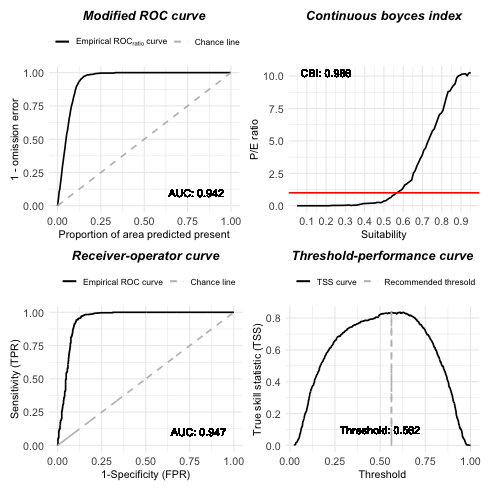
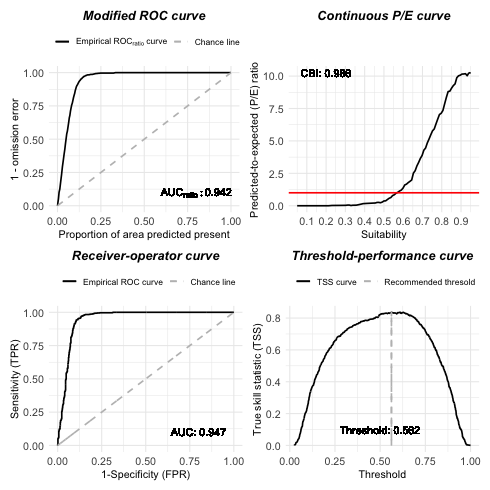
Built site for itsdm: 0.1.3@aee280a

Changed region(s): [[0.3367, 0.1224, 0.551, 0.4592], [0.6122, 0.0, 0.949, 0.0612]]

diff --git a/articles/introduction_of_itsdm.html b/articles/introduction_of_itsdm.html
@@ -84,7 +84,7 @@
       <h1 data-toc-skip>Introduction of <code>itsdm</code> with a virtual species</h1>
                         <h4 data-toc-skip class="author">Lei Song</h4>
             
-            <h4 data-toc-skip class="date">2022-08-31</h4>
+            <h4 data-toc-skip class="date">2022-09-05</h4>
       
       <small class="dont-index">Source: <a href="https://github.com/LLeiSong/itsdm/blob/HEAD/vignettes/introduction_of_itsdm.Rmd" class="external-link"><code>vignettes/introduction_of_itsdm.Rmd</code></a></small>
       <div class="hidden name"><code>introduction_of_itsdm.Rmd</code></div>
@@ -211,7 +211,7 @@
 <span></span>
 <span><span class="co"># Check response curves</span></span>
 <span><span class="fu">plotResponse</span><span class="op">(</span><span class="va">my.species</span><span class="op">)</span></span></code></pre></div>
-<p><img src="intro-virtualspecies-1.png" title="plot of chunk virtualspecies" alt="plot of chunk virtualspecies" style="display: block; margin: auto;"></p>
+<p><img src="intro-virtualspecies-1.png" alt="plot of chunk virtualspecies" style="display: block; margin: auto;"></p>
 </div>
 <div class="section level2">
 <h2 id="generate-pseudo-samples-for-virtual-species">Generate pseudo samples for virtual species<a class="anchor" aria-label="anchor" href="#generate-pseudo-samples-for-virtual-species"></a>
@@ -284,7 +284,7 @@
 <span><span class="co"># plot(occ_outliers,</span></span>
 <span><span class="co">#      overlay_raster = variables %&gt;% slice('band', 6))</span></span>
 <span><span class="fu"><a href="https://rdrr.io/r/graphics/plot.default.html" class="external-link">plot</a></span><span class="op">(</span><span class="va">occ_outliers</span><span class="op">)</span></span></code></pre></div>
-<p><img src="intro-remove_outliers-1.png" title="plot of chunk remove_outliers" alt="plot of chunk remove_outliers" style="display: block; margin: auto;"></p>
+<p><img src="intro-remove_outliers-1.png" alt="plot of chunk remove_outliers" style="display: block; margin: auto;"></p>
 <div class="sourceCode" id="cb8"><pre class="downlit sourceCode r">
 <code class="sourceCode R"><span></span>
 <span><span class="co"># Remove outliers if necessary</span></span>
@@ -339,8 +339,8 @@
 <span>                     sample_size <span class="op">=</span> <span class="fl">0.8</span>,</span>
 <span>                     ndim <span class="op">=</span> <span class="fl">2</span><span class="op">)</span></span></code></pre></div>
 <p>Let’s compare the predicted suitability with real suitability.</p>
-<p><img src="intro-prediction-1.png" title="plot of chunk prediction" alt="plot of chunk prediction" style="display: block; margin: auto;"></p>
-<p><img src="intro-raw_suit-1.png" title="plot of chunk raw_suit" alt="plot of chunk raw_suit" style="display: block; margin: auto;"></p>
+<p><img src="intro-prediction-1.png" alt="plot of chunk prediction" style="display: block; margin: auto;"></p>
+<p><img src="intro-raw_suit-1.png" alt="plot of chunk raw_suit" style="display: block; margin: auto;"></p>
 <p>Let’s do model evaluation using multiple presence-only metrics. In this package, we implement both presence-only and presence-background evaluation metrics. The model calculated evaluation on both training and test datasets. Here we just display evaluation on test dataset. You could check <code>it_sdm$eval_train</code> the same way as <code>it_sdm$eval_test</code>.</p>
 <div class="sourceCode" id="cb10"><pre class="downlit sourceCode r">
 <code class="sourceCode R"><span><span class="co"># Metrics based on test dataset</span></span>
@@ -364,21 +364,21 @@
 <span><span class="co">#&gt; Overprediction rate:          0.122</span></span>
 <span><span class="co">#&gt; Underprediction rate:         0.028</span></span>
 <span><span class="fu"><a href="https://rdrr.io/r/graphics/plot.default.html" class="external-link">plot</a></span><span class="op">(</span><span class="va">it_sdm</span><span class="op">$</span><span class="va">eval_test</span><span class="op">)</span></span></code></pre></div>
-<p><img src="intro-evaluation-1.png" title="plot of chunk evaluation" alt="plot of chunk evaluation" style="display: block; margin: auto;"></p>
+<p><img src="intro-evaluation-1.png" alt="plot of chunk evaluation" style="display: block; margin: auto;"></p>
 <p>The result of <code>isotree_po</code> has options to generate response curves and variable analysis together. The response curves include marginal response curves, independent response curves, and Shapley value-based dependence. The variable analysis consists of the Jackknife of Pearson correlation with the result of the full model with all variables and AUC_ratio and variable dependence with SHAP test.</p>
 <div class="sourceCode" id="cb11"><pre class="downlit sourceCode r">
 <code class="sourceCode R"><span><span class="co"># Plot response curves</span></span>
 <span><span class="co">## Marginal response curves of bio5 and bio6</span></span>
 <span><span class="fu"><a href="https://rdrr.io/r/graphics/plot.default.html" class="external-link">plot</a></span><span class="op">(</span><span class="va">it_sdm</span><span class="op">$</span><span class="va">marginal_responses</span>, target_var <span class="op">=</span> <span class="fu"><a href="https://rdrr.io/r/base/c.html" class="external-link">c</a></span><span class="op">(</span><span class="st">'bio1'</span>, <span class="st">'bio5'</span><span class="op">)</span><span class="op">)</span></span></code></pre></div>
-<p><img src="intro-marginal_responses-1.png" title="plot of chunk marginal_responses" alt="plot of chunk marginal_responses" style="display: block; margin: auto;"></p>
+<p><img src="intro-marginal_responses-1.png" alt="plot of chunk marginal_responses" style="display: block; margin: auto;"></p>
 <div class="sourceCode" id="cb12"><pre class="downlit sourceCode r">
 <code class="sourceCode R"><span><span class="co">## Independent response curves of variable bio1 and bio12.</span></span>
 <span><span class="fu"><a href="https://rdrr.io/r/graphics/plot.default.html" class="external-link">plot</a></span><span class="op">(</span><span class="va">it_sdm</span><span class="op">$</span><span class="va">independent_responses</span>, target_var <span class="op">=</span> <span class="fu"><a href="https://rdrr.io/r/base/c.html" class="external-link">c</a></span><span class="op">(</span><span class="st">'bio1'</span>, <span class="st">'bio12'</span><span class="op">)</span><span class="op">)</span></span></code></pre></div>
-<p><img src="intro-independent_responses-1.png" title="plot of chunk independent_responses" alt="plot of chunk independent_responses" style="display: block; margin: auto;"></p>
+<p><img src="intro-independent_responses-1.png" alt="plot of chunk independent_responses" style="display: block; margin: auto;"></p>
 <div class="sourceCode" id="cb13"><pre class="downlit sourceCode r">
 <code class="sourceCode R"><span><span class="co">## Variable dependence scatter points with fitted curves made by SHAP test</span></span>
 <span><span class="fu"><a href="https://rdrr.io/r/graphics/plot.default.html" class="external-link">plot</a></span><span class="op">(</span><span class="va">it_sdm</span><span class="op">$</span><span class="va">shap_dependence</span>, smooth_line <span class="op">=</span> <span class="cn">FALSE</span><span class="op">)</span></span></code></pre></div>
-<p><img src="intro-variable_dependence-1.png" title="plot of chunk variable_dependence" alt="plot of chunk variable_dependence" style="display: block; margin: auto;"></p>
+<p><img src="intro-variable_dependence-1.png" alt="plot of chunk variable_dependence" style="display: block; margin: auto;"></p>
 <div class="sourceCode" id="cb14"><pre class="downlit sourceCode r">
 <code class="sourceCode R"><span><span class="co"># Printing variable analysis could give you enough info of variable importance</span></span>
 <span><span class="va">it_sdm</span><span class="op">$</span><span class="va">variable_analysis</span></span>
@@ -443,7 +443,7 @@
 <span></span>
 <span><span class="co"># We also could plot variable importance out</span></span>
 <span><span class="fu"><a href="https://rdrr.io/r/graphics/plot.default.html" class="external-link">plot</a></span><span class="op">(</span><span class="va">it_sdm</span><span class="op">$</span><span class="va">variable_analysis</span><span class="op">)</span></span></code></pre></div>
-<p><img src="intro-variable_analysis-1.png" title="plot of chunk variable_analysis" alt="plot of chunk variable_analysis" style="display: block; margin: auto;"></p>
+<p><img src="intro-variable_analysis-1.png" alt="plot of chunk variable_analysis" style="display: block; margin: auto;"></p>
 <p>According to the analysis, all explanatory variables contribute significantly to the model. This is predictable because the virtual species is made by these four variables. bio12 is the most important variable.</p>
 <p>Besides the regular response curves, <code>itsdm</code> also makes spatially partial dependence maps. By default in <code>isotree_po</code>, Shapley value-based spatial dependence maps are not generated because of the computational efficiency. The user could generate these maps by calling function <code>spatial_response</code> later after getting the model done.</p>
 <p>Note that a very large raster stack of environmental variables might cause memory failure or super slow computation when calculating Shapely value-based spatially dependence maps. So use it based on your own knowledge of your data. Shapley value-based dependence map will give you a bit more information of the value pushing the prediction higher or lower than average.</p>
@@ -477,7 +477,7 @@
 <span><span class="co">#&gt; beta = 0.7</span></span>
 <span><span class="co">#&gt; alpha = -0.05</span></span>
 <span><span class="co">#&gt; species prevalence = 0.105503625307627</span></span></code></pre></div>
-<p><img src="intro-pa-1.png" title="plot of chunk pa" alt="plot of chunk pa" style="display: block; margin: auto;"></p>
+<p><img src="intro-pa-1.png" alt="plot of chunk pa" style="display: block; margin: auto;"></p>
 </div>
 <div class="section level2">
 <h2 id="analyze-variable-dependence">Analyze variable dependence<a class="anchor" aria-label="anchor" href="#analyze-variable-dependence"></a>
@@ -493,7 +493,7 @@
 <span><span class="fu"><a href="https://rdrr.io/r/graphics/plot.default.html" class="external-link">plot</a></span><span class="op">(</span><span class="va">var_dependence</span>,</span>
 <span>     target_var <span class="op">=</span> <span class="fu"><a href="https://rdrr.io/r/base/c.html" class="external-link">c</a></span><span class="op">(</span><span class="st">'bio1'</span>, <span class="st">'bio12'</span><span class="op">)</span>,</span>
 <span>     related_var <span class="op">=</span> <span class="st">'bio5'</span>, smooth_line <span class="op">=</span> <span class="cn">TRUE</span><span class="op">)</span></span></code></pre></div>
-<p><img src="intro-var_inter_dependence-1.png" title="plot of chunk var_inter_dependence" alt="plot of chunk var_inter_dependence" style="display: block; margin: auto;"></p>
+<p><img src="intro-var_inter_dependence-1.png" alt="plot of chunk var_inter_dependence" style="display: block; margin: auto;"></p>
 <p>Above figure shows bio1 and bio5 have strong correlations.</p>
 </div>
 <div class="section level2">
@@ -512,7 +512,7 @@
 <span><span class="co">## By default, it only plot the most 5 important variables for each observation</span></span>
 <span><span class="co">## You could change `num_features` to show more variables</span></span>
 <span><span class="fu"><a href="https://rdrr.io/r/graphics/plot.default.html" class="external-link">plot</a></span><span class="op">(</span><span class="va">var_contrib</span>, plot_each_obs <span class="op">=</span> <span class="cn">T</span>, num_features <span class="op">=</span> <span class="fl">4</span><span class="op">)</span></span></code></pre></div>
-<p><img src="intro-var_contrib-1.png" title="plot of chunk var_contrib" alt="plot of chunk var_contrib" style="display: block; margin: auto;"></p>
+<p><img src="intro-var_contrib-1.png" alt="plot of chunk var_contrib" style="display: block; margin: auto;"></p>
 <p>For example, No.2 observation is decided largely by bio15 and bio5 negatively. Let’s check it with spatial response map together.</p>
 <div class="sourceCode" id="cb19"><pre class="downlit sourceCode r">
 <code class="sourceCode R"><span><span class="fu"><a href="https://ggplot2.tidyverse.org/reference/ggplot.html" class="external-link">ggplot</a></span><span class="op">(</span><span class="op">)</span> <span class="op">+</span></span>
@@ -522,7 +522,7 @@
 <span>  <span class="fu"><a href="https://ggplot2.tidyverse.org/reference/ggsf.html" class="external-link">geom_sf</a></span><span class="op">(</span>data <span class="op">=</span> <span class="va">it_sdm</span><span class="op">$</span><span class="va">var_test</span> <span class="op"><a href="https://magrittr.tidyverse.org/reference/pipe.html" class="external-link">%&gt;%</a></span> <span class="fu"><a href="https://dplyr.tidyverse.org/reference/slice.html" class="external-link">slice</a></span><span class="op">(</span><span class="fl">2</span><span class="op">)</span>,</span>
 <span>          color <span class="op">=</span> <span class="st">'blue'</span>, pch <span class="op">=</span> <span class="fl">1</span><span class="op">)</span> <span class="op">+</span></span>
 <span>  <span class="fu"><a href="https://ggplot2.tidyverse.org/reference/ggtheme.html" class="external-link">theme_linedraw</a></span><span class="op">(</span><span class="op">)</span></span></code></pre></div>
-<p><img src="intro-var_contrib_plot-1.png" title="plot of chunk var_contrib_plot" alt="plot of chunk var_contrib_plot" style="display: block; margin: auto;"></p>
+<p><img src="intro-var_contrib_plot-1.png" alt="plot of chunk var_contrib_plot" style="display: block; margin: auto;"></p>
 </div>
   </div>
 

diff --git a/articles/itsdm_example.html b/articles/itsdm_example.html
@@ -84,7 +84,7 @@
       <h1 data-toc-skip>Using <code>itsdm</code> to a real species: Africa savanna elephant</h1>
                         <h4 data-toc-skip class="author">Lei Song</h4>
             
-            <h4 data-toc-skip class="date">2022-08-31</h4>
+            <h4 data-toc-skip class="date">2022-09-06</h4>
       
       <small class="dont-index">Source: <a href="https://github.com/LLeiSong/itsdm/blob/HEAD/vignettes/itsdm_example.Rmd" class="external-link"><code>vignettes/itsdm_example.Rmd</code></a></small>
       <div class="hidden name"><code>itsdm_example.Rmd</code></div>
@@ -252,7 +252,7 @@
 <span><span class="co">#&gt;      [bio17] &lt;= [8.00] (value: 6.00)</span></span>
 <span><span class="co">#&gt;      [bio18] &lt;= [145.00] (value: 99.00)</span></span>
 <span><span class="fu"><a href="https://rdrr.io/r/graphics/plot.default.html" class="external-link">plot</a></span><span class="op">(</span><span class="va">occ_outliers</span><span class="op">)</span></span></code></pre></div>
-<p><img src="itsdm-outliers-1.png" title="plot of chunk outliers" alt="plot of chunk outliers" style="display: block; margin: auto;"></p>
+<p><img src="itsdm-outliers-1.png" alt="plot of chunk outliers" style="display: block; margin: auto;"></p>
 <p>According to the figure and the prior knowledge of the Africa savanna elephant, we decide not to drop the outliers. The outliers seem more like rare records. In addition, if they are real outliers, the later <code>isolation.forest</code> could detect them again. Now let’s organize the occurrence before the next step.</p>
 <div class="sourceCode" id="cb7"><pre class="downlit sourceCode r">
 <code class="sourceCode R"><span><span class="va">occ</span> <span class="op">&lt;-</span> <span class="va">occ_outliers</span><span class="op">$</span><span class="va">pts_occ</span></span>
@@ -344,7 +344,7 @@
 <h2 id="visualize-results">Visualize results<a class="anchor" aria-label="anchor" href="#visualize-results"></a>
 </h2>
 <p>Predicted environmental suitability</p>
-<p><img src="itsdm-prediction-1.png" title="plot of chunk prediction" alt="plot of chunk prediction" style="display: block; margin: auto;"></p>
+<p><img src="itsdm-prediction-1.png" alt="plot of chunk prediction" style="display: block; margin: auto;"></p>
 <p>This indicates African savanna elephants have a very large potential habitat on this continent. Like more explicit field research indicates that the potential range of African elephants could be more than five times larger than its current extent (<a href="https://scitechdaily.com/african-elephants-have-plenty-of-habitat-if-spared-from-the-ivory-trade/" class="external-link uri">https://scitechdaily.com/african-elephants-have-plenty-of-habitat-if-spared-from-the-ivory-trade/</a>). As a mega-mammal, elephants could adapt themselves to survive harsh environments.</p>
 <p>Presence-only model evaluation</p>
 <div class="sourceCode" id="cb12"><pre class="downlit sourceCode r">
@@ -373,7 +373,7 @@
 <span><span class="co">#&gt; Overprediction rate:          0.214</span></span>
 <span><span class="co">#&gt; Underprediction rate:         0.199</span></span>
 <span><span class="fu"><a href="https://rdrr.io/r/graphics/plot.default.html" class="external-link">plot</a></span><span class="op">(</span><span class="va">it_sdm</span><span class="op">$</span><span class="va">eval_test</span><span class="op">)</span></span></code></pre></div>
-<p><img src="itsdm-eval-1.png" title="plot of chunk eval" alt="plot of chunk eval" style="display: block; margin: auto;"></p>
+<p><img src="itsdm-eval-1.png" alt="plot of chunk eval" style="display: block; margin: auto;"></p>
 <p>According to the evaluation, the model has the potential to improve, for instance, by adding more explanatory features: forest cover, distance to water, elevation, slope, human influence, etc. According to the continuous Boyce index and TSS curve, the model overestimates some “completely” unsuitable areas, for example, Sahara (see above suitability map). One assumption is that several occurrence data locate in the Namib desert. And land cover map reflects this information to Sahara. But Namib desert is very narrow and close to natural resources, which makes it suitable for elephants. However, deep Sahara is not the same story. So, including a feature describing the distance to water could be helpful to improve the model.</p>
 </div>
 <div class="section level2">
@@ -384,12 +384,12 @@
 <div class="sourceCode" id="cb13"><pre class="downlit sourceCode r">
 <code class="sourceCode R"><span><span class="co"># Plot response curves</span></span>
 <span><span class="fu"><a href="https://rdrr.io/r/graphics/plot.default.html" class="external-link">plot</a></span><span class="op">(</span><span class="va">it_sdm</span><span class="op">$</span><span class="va">marginal_responses</span>, target_var <span class="op">=</span> <span class="fu"><a href="https://rdrr.io/r/base/c.html" class="external-link">c</a></span><span class="op">(</span><span class="st">'bio1'</span>, <span class="st">'bio12'</span><span class="op">)</span><span class="op">)</span></span></code></pre></div>
-<p><img src="itsdm-marginal_responses-1.png" title="plot of chunk marginal_responses" alt="plot of chunk marginal_responses" style="display: block; margin: auto;"></p>
+<p><img src="itsdm-marginal_responses-1.png" alt="plot of chunk marginal_responses" style="display: block; margin: auto;"></p>
 <p>We checked the marginal response curves of two bioclimatic variables. The response curve of bio1 and bio12 are very reasonable and indicate the preferred temperature and precipitation conditions.</p>
 <p>Independent response curves</p>
 <div class="sourceCode" id="cb14"><pre class="downlit sourceCode r">
 <code class="sourceCode R"><span><span class="fu"><a href="https://rdrr.io/r/graphics/plot.default.html" class="external-link">plot</a></span><span class="op">(</span><span class="va">it_sdm</span><span class="op">$</span><span class="va">independent_responses</span>, target_var <span class="op">=</span> <span class="fu"><a href="https://rdrr.io/r/base/c.html" class="external-link">c</a></span><span class="op">(</span><span class="st">'landcover'</span>, <span class="st">'wdpa'</span><span class="op">)</span><span class="op">)</span></span></code></pre></div>
-<p><img src="itsdm-independent_responses-1.png" title="plot of chunk independent_responses" alt="plot of chunk independent_responses" style="display: block; margin: auto;"></p>
+<p><img src="itsdm-independent_responses-1.png" alt="plot of chunk independent_responses" style="display: block; margin: auto;"></p>
 <p>According to the figure above, elephants go beyond protected areas often. This matches with the previous study related to elephant movement. Thus, the binary protected area is not a good modeling variable. Distance to the protected area might be, however. Because usually, there are plenty of natural resources (food, water, etc.) within the protected area. Elephants might like to stay around these protected areas. The response of land cover indicates that elephants strongly prefer to stay in some landscape, such as forest, shrub, wetland, cropland, and built-up. Here is some useful information:</p>
 <ol style="list-style-type: decimal">
 <li>Forest/shrub cover ratio may be another helpful feature regarding land cover.</li>
@@ -399,7 +399,7 @@
 <div class="sourceCode" id="cb15"><pre class="downlit sourceCode r">
 <code class="sourceCode R"><span><span class="co">## Variable dependence scatter points with fitted curves made by SHAP test</span></span>
 <span><span class="fu"><a href="https://rdrr.io/r/graphics/plot.default.html" class="external-link">plot</a></span><span class="op">(</span><span class="va">it_sdm</span><span class="op">$</span><span class="va">shap_dependences</span>, smooth_line <span class="op">=</span> <span class="cn">FALSE</span><span class="op">)</span></span></code></pre></div>
-<p><img src="itsdm-variable_dependence-1.png" title="plot of chunk variable_dependence" alt="plot of chunk variable_dependence" style="display: block; margin: auto;"></p>
+<p><img src="itsdm-variable_dependence-1.png" alt="plot of chunk variable_dependence" style="display: block; margin: auto;"></p>
 <p>Now, let’s overview all variable responses made by Shapley values. All variables seem to be the environmental features of elephants. Precipitation seems like a solid decisive factor. We could analyze feature importance further to diagnose the contribution of each variable.</p>
 </div>
 <div class="section level2">
@@ -535,7 +535,7 @@
 <span>  <span class="va">it_sdm</span><span class="op">$</span><span class="va">var_train</span> <span class="op"><a href="https://magrittr.tidyverse.org/reference/pipe.html" class="external-link">%&gt;%</a></span> <span class="fu"><a href="https://r-spatial.github.io/sf/reference/st_geometry.html" class="external-link">st_drop_geometry</a></span><span class="op">(</span><span class="op">)</span><span class="op">)</span></span>
 <span><span class="co"># Plot general contribution for all observations</span></span>
 <span><span class="fu"><a href="https://rdrr.io/r/graphics/plot.default.html" class="external-link">plot</a></span><span class="op">(</span><span class="va">var_contrib</span><span class="op">)</span></span></code></pre></div>
-<p><img src="itsdm-var_contrib_general-1.png" title="plot of chunk var_contrib_general" alt="plot of chunk var_contrib_general" style="display: block; margin: auto;"></p>
+<p><img src="itsdm-var_contrib_general-1.png" alt="plot of chunk var_contrib_general" style="display: block; margin: auto;"></p>
 </div>
 <div class="section level2">
 <h2 id="presence-absence-map">Presence-absence map<a class="anchor" aria-label="anchor" href="#presence-absence-map"></a>
@@ -554,7 +554,7 @@
 <span>                       na.value <span class="op">=</span> <span class="st">'transparent'</span><span class="op">)</span> <span class="op">+</span></span>
 <span>  <span class="fu"><a href="https://ggplot2.tidyverse.org/reference/coord_fixed.html" class="external-link">coord_equal</a></span><span class="op">(</span><span class="op">)</span> <span class="op">+</span></span>
 <span>  <span class="fu"><a href="https://ggplot2.tidyverse.org/reference/ggtheme.html" class="external-link">theme_linedraw</a></span><span class="op">(</span><span class="op">)</span></span></code></pre></div>
-<p><img src="itsdm-pa-1.png" title="plot of chunk pa" alt="plot of chunk pa" style="display: block; margin: auto;"></p>
+<p><img src="itsdm-pa-1.png" alt="plot of chunk pa" style="display: block; margin: auto;"></p>
 </div>
 <div class="section level2">
 <h2 id="analyze-variable-dependence">Analyze variable dependence<a class="anchor" aria-label="anchor" href="#analyze-variable-dependence"></a>
@@ -564,7 +564,7 @@
 <code class="sourceCode R"><span><span class="fu"><a href="https://rdrr.io/r/graphics/plot.default.html" class="external-link">plot</a></span><span class="op">(</span><span class="va">it_sdm</span><span class="op">$</span><span class="va">shap_dependences</span>,</span>
 <span>     target_var <span class="op">=</span> <span class="fu"><a href="https://rdrr.io/r/base/c.html" class="external-link">c</a></span><span class="op">(</span><span class="st">'bio1'</span>, <span class="st">'bio12'</span>, <span class="st">'landcover'</span><span class="op">)</span>,</span>
 <span>     related_var <span class="op">=</span> <span class="st">'bio3'</span>, smooth_line <span class="op">=</span> <span class="cn">FALSE</span><span class="op">)</span></span></code></pre></div>
-<p><img src="itsdm-var_inter_dependence-1.png" title="plot of chunk var_inter_dependence" alt="plot of chunk var_inter_dependence" style="display: block; margin: auto;"></p>
+<p><img src="itsdm-var_inter_dependence-1.png" alt="plot of chunk var_inter_dependence" style="display: block; margin: auto;"></p>
 <p>Bio3 has a strong correlation with bio12. We could check variable dependence one by one to exclude some in the final model.</p>
 </div>
 <div class="section level2">
@@ -589,7 +589,7 @@
 <span><span class="co">## By default, it only plot the most 5 important variables for each observation</span></span>
 <span><span class="co">## You could change `num_features` to show more variables</span></span>
 <span><span class="fu"><a href="https://rdrr.io/r/graphics/plot.default.html" class="external-link">plot</a></span><span class="op">(</span><span class="va">var_contrib_outliers</span>, plot_each_obs <span class="op">=</span> <span class="cn">T</span><span class="op">)</span></span></code></pre></div>
-<p><img src="itsdm-var_contrib-1.png" title="plot of chunk var_contrib" alt="plot of chunk var_contrib" style="display: block; margin: auto;"></p>
+<p><img src="itsdm-var_contrib-1.png" alt="plot of chunk var_contrib" style="display: block; margin: auto;"></p>
 <p>According to feature response curves and this figure, some detected outliers could be removed from training. For example, some features have a strongly negative contribution to observations No.2, No.4, and No.6 and they could be excluded.</p>
 </div>
 <div class="section level2">

diff --git a/news/index.html b/news/index.html
@@ -64,6 +64,7 @@
 <h2 class="page-header" data-toc-text="0.1.3" id="itsdm-013">itsdm 0.1.3<a class="anchor" aria-label="anchor" href="#itsdm-013"></a></h2>
 <ul><li>Fix a bug in function <code>print.VariableAnalysis</code> mentioned in issue <a href="https://github.com/LLeiSong/itsdm/issues/2" class="external-link">#2</a>: if any value is negative then it would fail.</li>
 <li>As mentioned in issue <a href="https://github.com/LLeiSong/itsdm/issues/3" class="external-link">#3</a>, add a sampling step in function <code>plot.ShapDependence</code> when the number of records is larger than 1000. In order to keep the overall trend, the sampling is stratified by bins. So the points cloud can be clearer to interpret.</li>
+<li>Modify some text in POEvaluation plot figure.</li>
 </ul></div>
     <div class="section level2">
 <h2 class="page-header" data-toc-text="0.1.2" id="itsdm-012">itsdm 0.1.2<small>2022-06-20</small><a class="anchor" aria-label="anchor" href="#itsdm-012"></a></h2>
